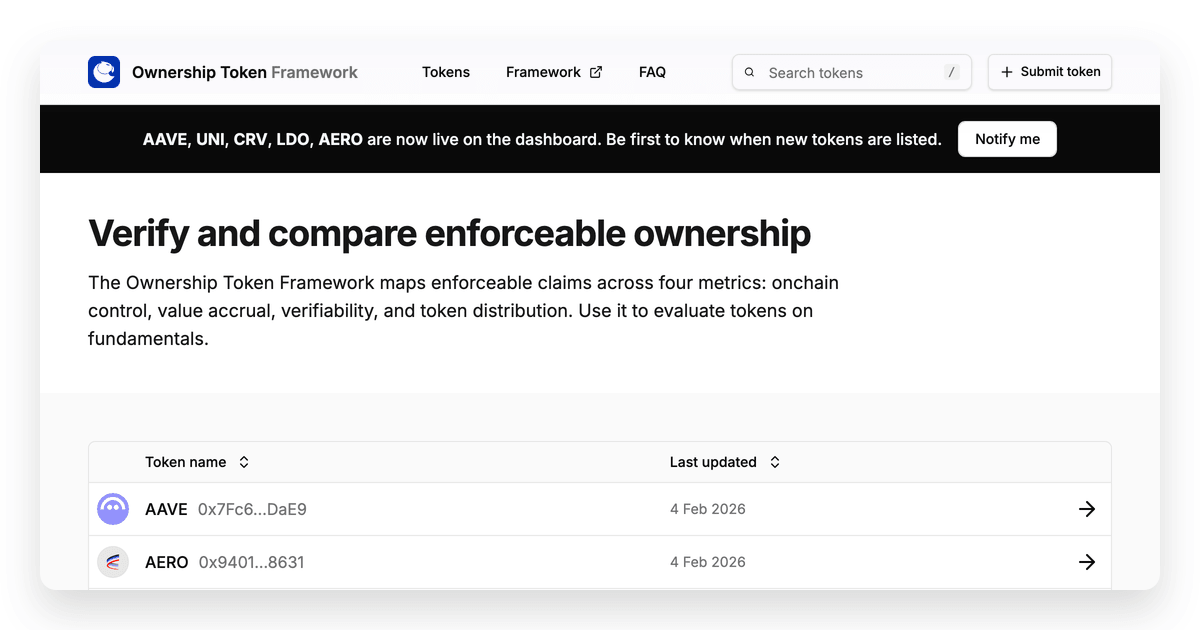
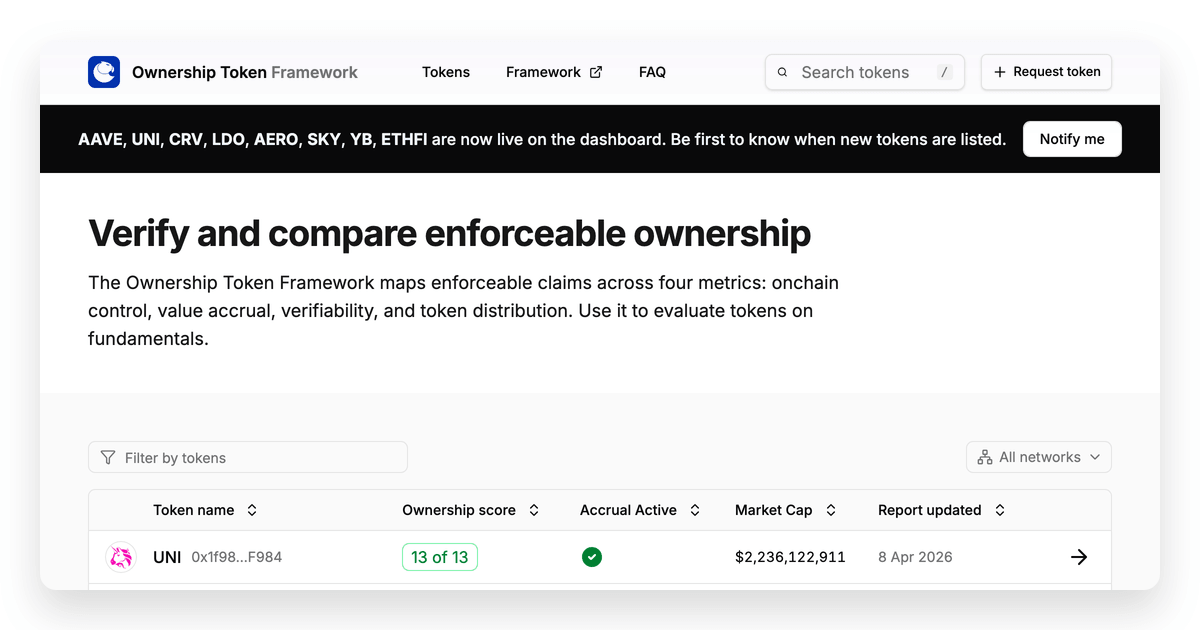
chore: Update OG screenshots (#140)

diff --git a/src/components/token-ownership-analytics.tsx b/src/components/token-ownership-analytics.tsx
@@ -226,8 +226,8 @@ const columns: ColumnDef<EnrichedToken>[] = [
   {
     id: "accrualActive",
     meta: {
-      headerClassName: "hidden md:table-cell w-[8%]",
-      cellClassName: "hidden md:table-cell w-[8%]",
+      headerClassName: "w-[8%]",
+      cellClassName: "w-[8%]",
     },
     accessorFn: (row) => {
       const status = getCriteriaStatus(row.id, "val-accrual__active")
@@ -264,8 +264,8 @@ const columns: ColumnDef<EnrichedToken>[] = [
   {
     accessorKey: "lastUpdated",
     meta: {
-      headerClassName: "hidden md:table-cell w-[11%]",
-      cellClassName: "hidden md:table-cell w-[11%]",
+      headerClassName: "w-[11%]",
+      cellClassName: "w-[11%]",
     },
     header: ({ column }) => (
       <SortableHeader column={column} label="Report updated" />
@@ -279,8 +279,8 @@ const columns: ColumnDef<EnrichedToken>[] = [
   {
     id: "actions",
     meta: {
-      headerClassName: "hidden lg:table-cell w-[11%]",
-      cellClassName: "hidden lg:table-cell w-[11%]",
+      headerClassName: "w-[11%]",
+      cellClassName: "w-[11%]",
     },
     cell: ({ row }) => (
       <div className="flex justify-end">
